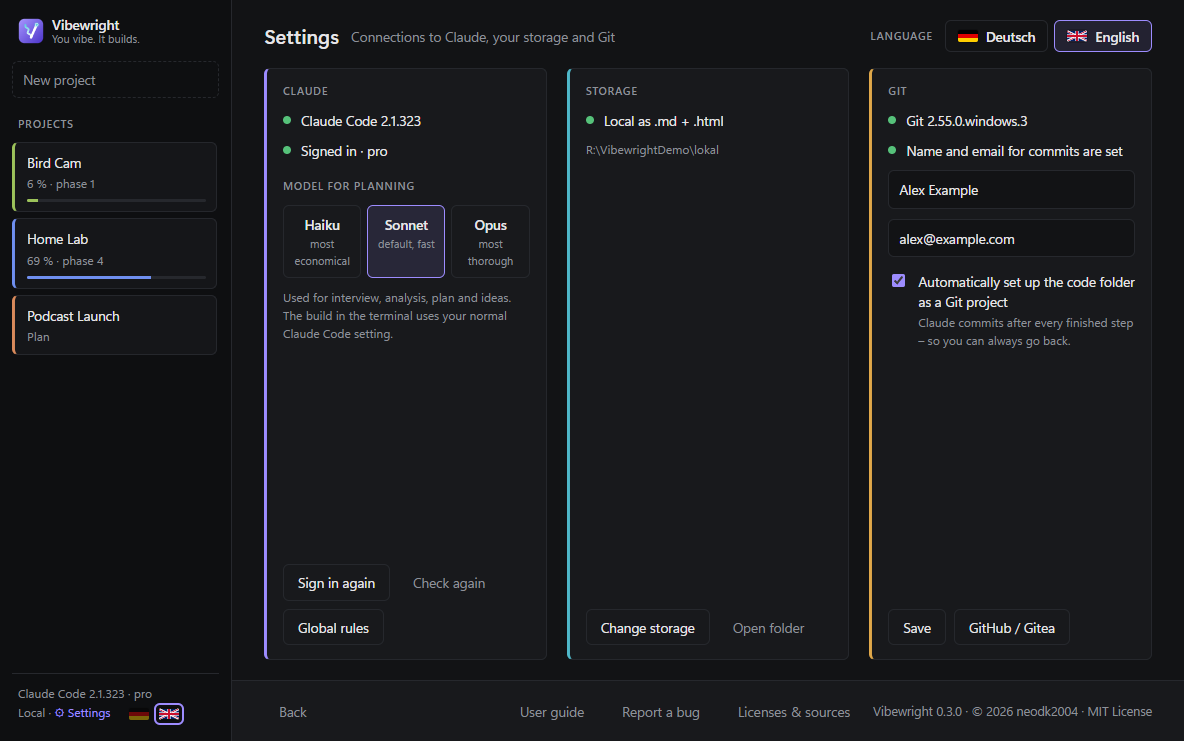
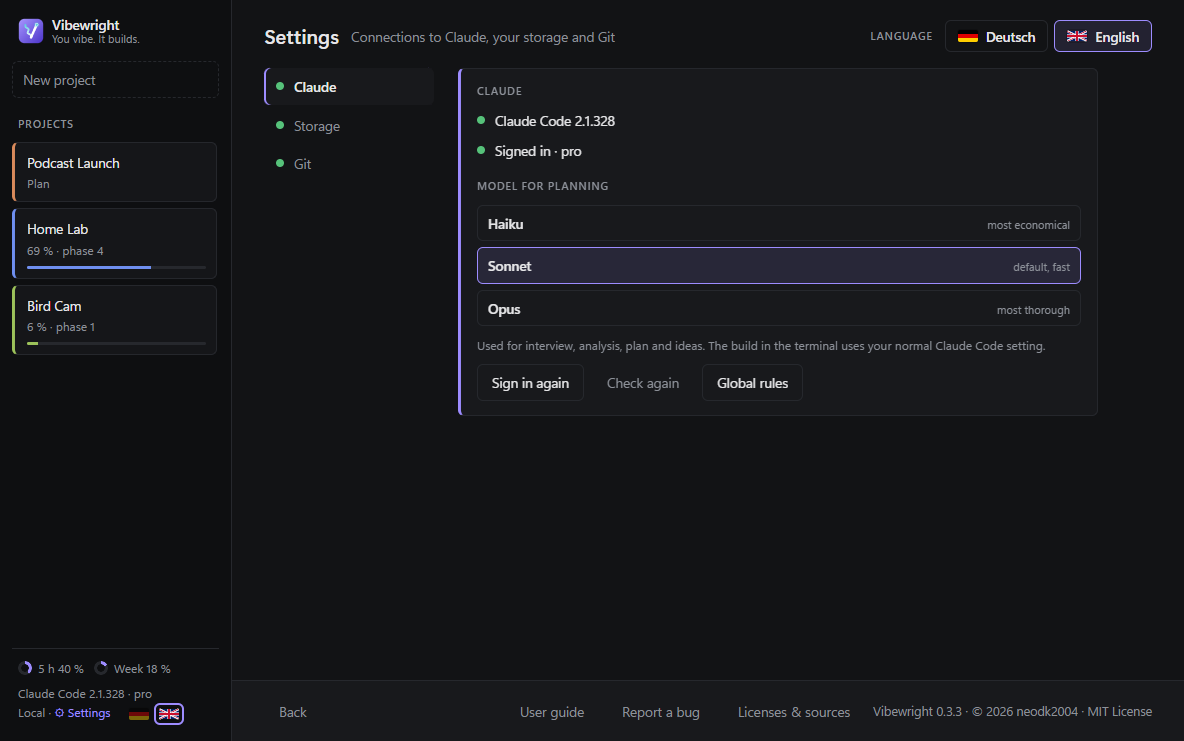
Version 0.3.3
- CHANGELOG: Abschnitt 0.3.3
- Anleitungen (DE/EN): Einstellungen mit Bereichen links, Inhalt rechts
- README-Screenshot der Einstellungen neu (Demo-Ablage, Platzhalter-Daten)

diff --git a/docs/user-guide.md b/docs/user-guide.md
@@ -163,14 +163,14 @@ If Claude is currently working in the terminal, the idea **waits until the curre
 
 ## 12. Settings
 
-Open **⚙ Settings** at the bottom of the sidebar.
+Open **⚙ Settings** at the bottom of the sidebar. Choose a section on the left – a green dot means everything is set up, a red dot means something is missing – and its settings appear on the right.
 
-| Card | What you can do |
+| Section | What you can do |
 |---|---|
 | **Claude** | See whether Claude Code is installed and signed in; **Sign in again**; choose the **model for planning**: Haiku (most economical), Sonnet (default), Opus (most thorough). The build in the terminal uses your normal Claude Code setting. |
 | **Storage** | See the current Obsidian vault or local folder, whether Dataview and a Kanban board were found; **Change storage**, **Open folder**, install Obsidian. |
 | **Git** | See whether Git is installed; set the **name and email** used for commits; switch **automatic Git projects** on or off. |
-| **Language** | Switch between 🇩🇪 Deutsch and 🇬🇧 English. |
+| **Language** (top right) | Switch between 🇩🇪 Deutsch and 🇬🇧 English. |
 
 > **Privacy tip:** commits contain your name and email. If you publish a project on GitHub and don't want your email to be visible, use GitHub's `noreply` address here.
 

diff --git a/docs/anleitung.md b/docs/anleitung.md
@@ -109,12 +109,12 @@ Gedanken in die Kachel tippen und **Einarbeiten** (oder Strg+Enter). Claude ordn
 
 ## 12. Einstellungen
 
-**⚙ Einstellungen** unten in der Seitenleiste:
+**⚙ Einstellungen** unten in der Seitenleiste. Links wählst du den Bereich – grüner Punkt: alles eingerichtet, roter Punkt: da fehlt noch etwas –, rechts erscheinen seine Einstellungen.
 
 - **Claude:** Status, Anmelden, **Modell für die Planung** (Haiku = sparsam, Sonnet = Standard, Opus = gründlich). Die Umsetzung im Terminal nutzt deine normale Claude-Code-Einstellung.
 - **Ablage:** Vault oder Ordner, Dataview- und Kanban-Erkennung, Ablage wechseln, Obsidian installieren.
 - **Git:** Name und E-Mail für Commits, automatische Git-Projekte an/aus.
-- **Sprache:** 🇩🇪 / 🇬🇧.
+- **Sprache** (oben rechts): 🇩🇪 / 🇬🇧.
 
 > **Datenschutz-Tipp:** Commits enthalten Name und E-Mail. Wer Projekte auf GitHub veröffentlicht, kann hier die `noreply`-Adresse von GitHub eintragen.
 

diff --git a/CHANGELOG.md b/CHANGELOG.md
@@ -2,7 +2,7 @@
 
 All notable changes to Vibewright are listed here. Format based on [Keep a Changelog](https://keepachangelog.com/en/1.1.0/); versions follow [Semantic Versioning](https://semver.org/).
 
-## [Unreleased]
+## [0.3.3] – 2026-11-19
 
 ### Changed
 - **Settings look like a normal settings page**: sections (Claude, Storage, Git) are listed on the left with a status dot, the chosen section is shown on the right – instead of three cards side by side.
